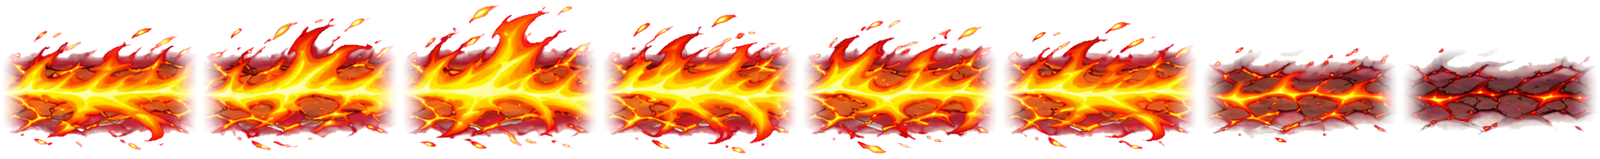
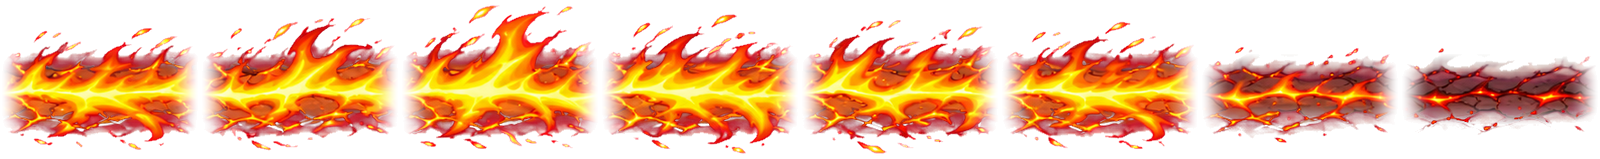
thap: vệt lửa Dragon Dive bám đuôi rồng (cháy dần 3 s từ lúc rồng qua, đầu cũ tắt trước), cua bo tròn không gãy/chồng/hở, lát khít không vằn; co-op đã kiểm 2 máy: rồng + sát thương chỉ trên đường của mình; GIF trước/sau
Claude-Session: https://claude.ai/code/session_01KQA7LFBkcdkiPiLcwYs7V2

diff --git a/thap/js/vfxmoi.js b/thap/js/vfxmoi.js
@@ -283,44 +283,108 @@ const VXD = {
 })();
 
 // =====================================================================================================
-// VỆT LỬA DRAGON DIVE (user 07/11 23:31 "vệt lửa hơi xấu" — thay chuỗi chấm quầng cam rời của HU.vetChay):
-//   dải ChatGPT fx_ronglua_vet (8 khung: 0–5 lửa cháy lặp, 6–7 tàn than) LÁT NỐI DỌC TIM ĐƯỜNG sau lưng rồng.
-//   Đoạn lửa đặt đều theo lưới trên đường (bước DOAN), xoay theo hướng đường, tâm dải = tim đường (mép được tràn, không cắt);
-//   2 đầu mỗi khung đã làm mềm sẵn (tools/thap-cat-vet-lua.py) → các đoạn gối lên nhau không lộ đường nối.
-//   Mỗi vệt cháy (HU.vetChay do HU.rongBo rải 0,08 s/lần) vẽ các đoạn lưới nằm trong quãng đường rồng vừa bay qua từ vệt trước
-//   → mỗi đoạn vẽ đúng 1 lần, mờ dần theo tuổi của vệt đó (bắt lửa → cháy → tàn than → tắt) trong suốt thời gian cháy.
-//   Chỉ TRÌNH BÀY: vùng cháy / sát thương / thời gian (cap() gốc) giữ nguyên. Chưa tải ảnh / vệt của nón phun → hình cũ.
+// VỆT LỬA DRAGON DIVE (user 07/11 23:31 "vệt lửa hơi xấu"; 08/11: bám ĐUÔI rồng, cháy dần từ đầu cũ, cua mềm):
+//   dải ChatGPT fx_ronglua_vet (8 khung: 0–5 lửa cháy lặp, 6–7 tàn than; 2 đầu khung làm mềm sẵn — tools/thap-cat-vet-lua.py)
+//   → dựng sẵn dải LẶP LIỀN (các khung gối nhau, chu kỳ 6 khung) rồi vẽ thành LÁT MỎNG dọc tim đường sau lưng rồng.
+//   · Đầu vệt = đuôi rồng ở MỌI khung hình / tốc độ: tính thẳng từ o.t của HU.rongBo (cùng công thức toạ độ rồng), không chờ vệt rải.
+//   · Mỗi điểm trên đường có đồng hồ riêng 3 s tính từ lúc rồng bay qua: bắt lửa → cháy → tàn than → tắt (đầu cũ tắt trước).
+//   · Cua: tim đường làm tròn (trung bình các điểm quanh góc, bán kính BO) + lát xoay theo hướng đường, lát nở rộng phía ngoài cua
+//     → không gãy / chồng / hở ở góc (cả cua chữ U).
+//   · Chỉ trên ĐÚNG đường của bàn ra chiêu (o.p = đường HU.rongBo bay = vùng sát thương thật). Không cắt ảnh, mép được tràn.
+//   Chỉ TRÌNH BÀY: vùng cháy / sát thương / thời gian (HU.vetChay, HU.rongBo gốc) giữ nguyên. Chưa tải ảnh → hình cũ.
 // =====================================================================================================
 (function () {
-  if (typeof HU === 'undefined' || !HU.vetChay || !HU.rongBo || typeof SIG_META === 'undefined') return;
-  SIG_META.fx_ronglua_vet = [8, 200, 159];
-  if (VXM.U.ronglua) VXM.U.ronglua.push('fx_ronglua_vet');
-  const AY = 0.557, CAO = 81, RONG = CAO * 200 / 159, DOAN = RONG * 0.68; // tim dải ở 55,7% chiều cao khung; lõi sáng ≈ 0,4·CAO ≈ 0,7 bề rộng đường
-  const VET = new WeakMap(), TRUOC = new WeakMap(); // vệt → { p, s0, s1 } (quãng đường nó phụ trách); rồng → s lúc rải vệt trước
+  if (typeof HU === 'undefined' || !HU.vetChay || !HU.rongBo || typeof SIG_META === 'undefined' || typeof REN === 'undefined') return;
+  const TEN = 'fx_ronglua_vet', FWN = 200, FHN = 159, GOI = 0.68; // khung gốc 200×159; bước lát = 68% bề ngang (2 đầu mềm gối nhau)
+  SIG_META[TEN] = [8, FWN, FHN];
+  if (VXM.U.ronglua) VXM.U.ronglua.push(TEN);
+  const AY = 0.557, CAO = 81, KX = FWN / (CAO * FWN / FHN); // tim dải ở 55,7% chiều cao khung; KX = px ảnh / px sân
+  const BUOC = Math.round(FWN * GOI), CHU = BUOC * 6, THEM = FWN; // chu kỳ dải lặp (px ảnh) + phần đệm để lát không vắt qua mép
+  const CHAY = 3, DS = 5, BO = 30, DUOI = 10; // giây cháy mỗi điểm · bước lát (px sân) · bán kính làm tròn cua · đầu vệt nằm dưới thân rồng
+  const DIVE = new Map(); let dai = null;
+  // dải lặp liền: dai[n] (n = 0–5) khung lửa xoay vòng lệch n · dai[6], dai[7] = tàn than
+  function dung() {
+    const im = REN.img(TEN); if (!im) return null;
+    const out = [];
+    for (let n = 0; n < 8; n++) {
+      const c = document.createElement('canvas'); c.width = CHU + THEM; c.height = FHN; const x = c.getContext('2d');
+      for (let j = -2; j < 8; j++) { const f = n < 6 ? (((j + n) % 6) + 6) % 6 : n; x.drawImage(im, f * FWN, 0, FWN, FHN, j * BUOC - (FWN - BUOC) / 2, 0, FWN, FHN); }
+      out.push(c);
+    }
+    return out;
+  }
+  // tim đường làm tròn ở cua: [x, y, góc]
+  function diem(P, c) {
+    let sx = 0, sy = 0;
+    for (let i = -2; i <= 2; i++) { const [x, y] = viTri(P, c + i * BO / 2); sx += x; sy += y; }
+    const [ax, ay] = viTri(P, c - BO), [bx, by] = viTri(P, c + BO);
+    return [sx / 5, sy / 5, Math.atan2(by - ay, bx - ax)];
+  }
+  // vệt rải của HU.rongBo: vẫn tính cháy như cũ, không vẽ chấm quầng nữa (vệt lửa dưới vẽ thay) — vệt dưới nón phun giữ hình cũ
+  const ve0 = HU.vetChay.ve;
+  HU.vetChay.ve = function (ctx, o, R) {
+    if (o._rong && dai) return;
+    return ve0.call(this, ctx, o, R);
+  };
   const cap0 = HU.rongBo.cap;
   HU.rongBo.cap = function (G, o, dt) {
-    const L0 = G.hu.length, s = o.p.len * (1 - Math.min(1, o.t / o.song));
-    const r = cap0.apply(this, arguments);
-    for (let i = L0; i < G.hu.length; i++) {
-      const v = G.hu[i];
-      if (v && v.k === 'vetChay' && v.T === o.T) { const s1 = TRUOC.has(o) ? TRUOC.get(o) : o.p.len; VET.set(v, { p: o.p, s0: s, s1 }); TRUOC.set(o, s); }
+    const L0 = G.hu.length, r = cap0.apply(this, arguments);
+    for (let i = L0; i < G.hu.length; i++) { const v = G.hu[i]; if (v && v.k === 'vetChay' && v.T === o.T) Object.defineProperty(v, '_rong', { value: 1, enumerable: false }); }
+    let d = DIVE.get(o); if (!d) { d = { o, p: o.p, song: o.song, t0: 0 }; DIVE.set(o, d); }
+    d.t0 = G.t - o.t; // giờ dive = G.t − t0 (khớp o.t lúc rồng còn bay, chạy tiếp sau khi rồng hết)
+    return r;
+  };
+  function ve1(ctx, d, R) {
+    const P = d.p, L = P.len, o = d.o, song = d.song, tt = G.t - d.t0;
+    const dangBay = tt < song && G.hu.indexOf(o) >= 0;
+    const sR = dangBay ? L * (1 - Math.min(1, o.t / song)) : 0; // vị trí rồng trên đường (cùng công thức HU.rongBo.cap)
+    const dau = dangBay ? Math.max(30, Math.min(L - 30, sR)) + DUOI : 0; // VXM.rong ghim rồng trong [30, L−30]
+    const n = Math.floor((R.t || 0) * 12) % 6, k = KX, m = ctx.getTransform();
+    const ghim = (v, i) => { const sc = i ? m.d : m.a, of = i ? m.f : m.e; return (Math.round(v * sc + of) - of) / sc; };
+    let truoc = null;
+    for (let c = L - 4; c > dau; c -= DS) {
+      const tuoi = tt - song * (1 - c / L); if (tuoi < 0) continue; // rồng chưa qua
+      const u = tuoi / CHAY; if (u >= 1) continue;
+      let a = Math.min(1, (c - dau) / 26) * Math.min(1, (L - c) / 22) * Math.min(1, c / 22); // ló ra dưới thân rồng · 2 đầu đường mềm
+      a *= 1 - Math.max(0, Math.min(1, (u - 0.84) / 0.16));
+      if (a <= 0.02) { truoc = null; continue; }
+      let [x, y, g] = diem(P, c), w = DS;
+      const tan = Math.max(0, Math.min(1, (u - 0.62) / 0.2));
+      const doc = Math.abs(Math.sin(g)) > 0.9999, ngang = Math.abs(Math.cos(g)) > 0.9999;
+      if (doc || ngang) {
+        // đoạn thẳng (đường chỉ có cạnh ngang/dọc): 2 mép lát lấy từ c ± DS/2 và ghim vào lưới điểm ảnh thiết bị
+        // → lát kề nhau khít mép, không chồng (không vằn sọc chỗ ảnh bán trong suốt), không hở
+        const [x0, y0] = viTri(P, c - DS / 2), [x1, y1] = viTri(P, c + DS / 2);
+        if (ngang) { const a0 = ghim(x0, 0), a1 = ghim(x1, 0); x = (a0 + a1) / 2; w = Math.abs(a1 - a0); }
+        else { const a0 = ghim(y0, 1), a1 = ghim(y1, 1); y = (a0 + a1) / 2; w = Math.abs(a1 - a0); }
+        truoc = null;
+      } else {
+        w = DS + 1.2;
+        if (truoc != null) { let dg = Math.abs(g - truoc); if (dg > Math.PI) dg = 2 * Math.PI - dg; w += dg * CAO * 0.62; } // cua: nở phía ngoài → không hở
+        truoc = g;
+      }
+      if (w < 0.01) continue;
+      const sx = ((c * k) % CHU + CHU) % CHU, sw = Math.min(THEM - 2, w * k);
+      ctx.save(); ctx.translate(x, y); ctx.rotate(g);
+      // tàn than nằm DƯỚI, hiện đủ trước khi lửa tắt hẳn → lửa lụi dần trên nền than (không bị nhạt bệch lúc chuyển)
+      if (tan > 0) { ctx.globalAlpha = a * Math.min(1, tan * 2); ctx.drawImage(dai[u > 0.8 ? 7 : 6], sx - sw / 2 + THEM / 2, 0, sw, FHN, -w / 2, -AY * CAO, w, CAO); }
+      if (tan < 1) { ctx.globalAlpha = a * (1 - tan); ctx.drawImage(dai[n], sx - sw / 2 + THEM / 2, 0, sw, FHN, -w / 2, -AY * CAO, w, CAO); }
+      ctx.restore();
+    }
+  }
+  // vẽ ngay TRƯỚC lớp vật trên đường (dưới quái), sau nhãn bàn
+  const vnb = REN.veNhanBan;
+  REN.veNhanBan = function (ctx) {
+    const r = vnb.apply(this, arguments);
+    if (!DIVE.size) return r;
+    if (!dai) dai = VXM.co(TEN) ? dung() : null;
+    for (const [o, d] of DIVE) {
+      const tt = G.t - d.t0;
+      if (tt > d.song + CHAY + 0.1 || tt < -1 || (G.hu.indexOf(o) < 0 && tt < d.song - 0.05)) { DIVE.delete(o); continue; } // hết cháy / ván mới
+      if (!dai) continue;
+      try { ve1(ctx, d, this); } finally { ctx.globalAlpha = 1; ctx.globalCompositeOperation = 'source-over'; }
     }
     return r;
   };
-  const ve0 = HU.vetChay.ve;
-  HU.vetChay.ve = function (ctx, o, R) {
-    const d = VET.get(o);
-    if (!d || !VXM.co('fx_ronglua_vet')) return ve0.call(this, ctx, o, R);
-    const u = o.t / o.song, P = d.p, lo = RONG * 0.3, hi = P.len - RONG * 0.3;
-    const aIn = Math.min(1, u / 0.03), tan = Math.max(0, Math.min(1, (u - 0.62) / 0.2)), aOut = 1 - Math.max(0, Math.min(1, (u - 0.84) / 0.16));
-    if (aIn * aOut <= 0.01) return;
-    const n = Math.floor((R.t || 0) * 12);
-    for (let k = Math.ceil(d.s0 / DOAN - 0.5); (k + 0.5) * DOAN <= d.s1; k++) {
-      const c = (k + 0.5) * DOAN; if (c <= d.s0 || c < lo || c > hi) continue;
-      const [x, y, g] = viTri(P, c), f = (k * 5 + n) % 6, a = aIn * aOut;
-      if (tan < 1) VXM.k(ctx, 'fx_ronglua_vet', f, x, y, RONG, { g, ay: AY, h: CAO, a: a * (1 - tan) });
-      if (tan > 0) VXM.k(ctx, 'fx_ronglua_vet', u > 0.8 ? 7 : 6, x, y, RONG, { g, ay: AY, h: CAO, a: a * tan });
-    }
-    ctx.globalAlpha = 1; ctx.globalCompositeOperation = 'source-over';
-  };
+  if (typeof FX !== 'undefined' && FX.reset) { const rs = FX.reset; FX.reset = function () { DIVE.clear(); return rs.apply(this, arguments); }; }
 })();

diff --git a/tools/thap-cat-vet-lua.py b/tools/thap-cat-vet-lua.py
@@ -57,13 +57,13 @@ def main():
     nh = round(fh * FW / cw)
     strip = np.zeros((nh, FW * N, 4), np.uint8)
     yy = np.arange(Y0, Y1)[:, None] - YC
-    # mép trên/dưới nền đất: đất (điểm tối) mờ dần khi xa tim dải > 26 px, hết hẳn ở 46 px
-    mv = np.clip((46 - np.abs(yy)) / 20, 0, 1)
+    # mép trên/dưới nền đất: đất (điểm tối) mờ dần khi xa tim dải > 18 px, hết hẳn ở 40 px (không lộ mép hộp chữ nhật lúc tàn than)
+    mv = np.clip((40 - np.abs(yy)) / 22, 0, 1)
     for i in range(N):
         x0, x1 = int(round(i * cw)), int(round((i + 1) * cw))
         o = cat_o(a[Y0:Y1, x0:x1], bg)
         lum = o[..., :3].max(2)
-        toi = np.clip((170 - lum) / 70, 0, 1)            # 1 = đất tối, 0 = lửa sáng
+        toi = np.clip((190 - lum) / 80, 0, 1)            # 1 = đất tối, 0 = lửa sáng
         o[..., 3] *= 1 - toi * (1 - mv)
         w = x1 - x0
         xx = (np.arange(w) + 0.5) / w
